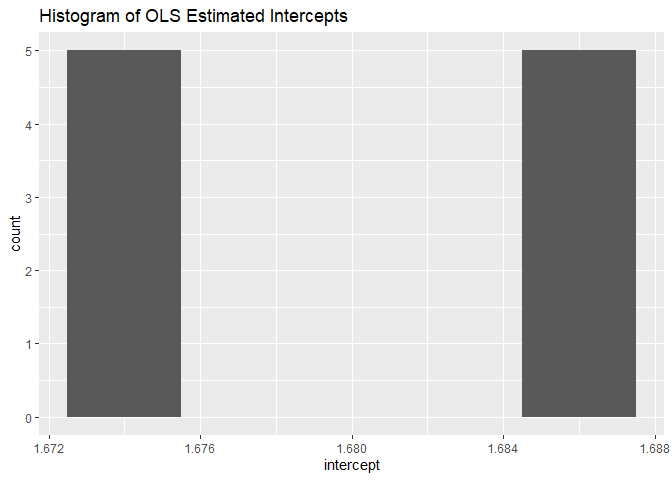
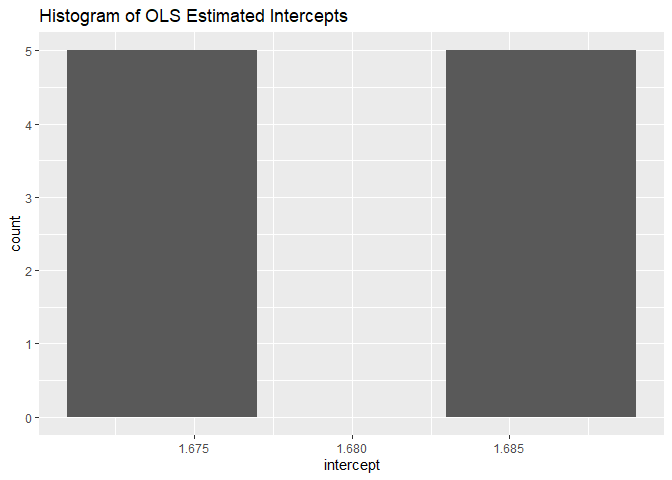
reduce hist bins on README

diff --git a/README.md b/README.md
@@ -69,8 +69,8 @@ robins_traj <- OLStraj(data = robins,
                       varlist = c("aug_05", "aug_06", "aug_07", "aug_08", "aug_09"),
                       timepts = c(0, 1, 2, 3, 4),
                       regtype = "lin",
-                      int_bins = 5,
-                      lin_bins = 5)
+                      int_bins = 3,
+                      lin_bins = 3)
 ```
 
 The OLStraj function provides several types of plots that facilitate the
